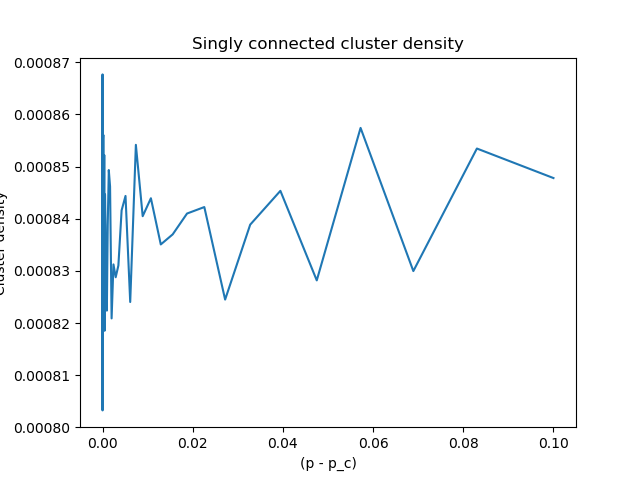
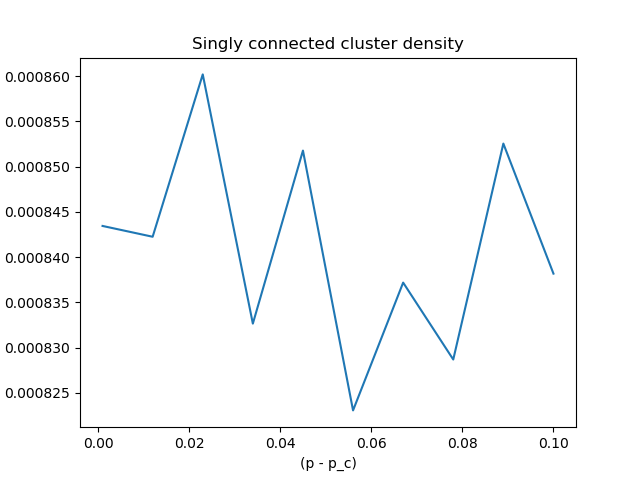
Finished Project3

diff --git a/Project3/q/mass.py b/Project3/q/mass.py
@@ -65,11 +65,11 @@ D, lnc = linregress(log(sizes), log(masses))[:2]
 print(D)
 
 L = 2**9
-ps = pc + 10**(np.linspace(-9.0, -1.0, 100))
+ps = pc + np.linspace(0.001, 0.1, 10)
 p_sc = np.zeros(len(ps))
 for j, p in enumerate(ps):
     print("p = %f" % p)
-    mass = 0
+    mass = 0.0
     for i in tqdm(range(no_samples)):
         mass += masswalk(L, p)
     mass /= no_samples
